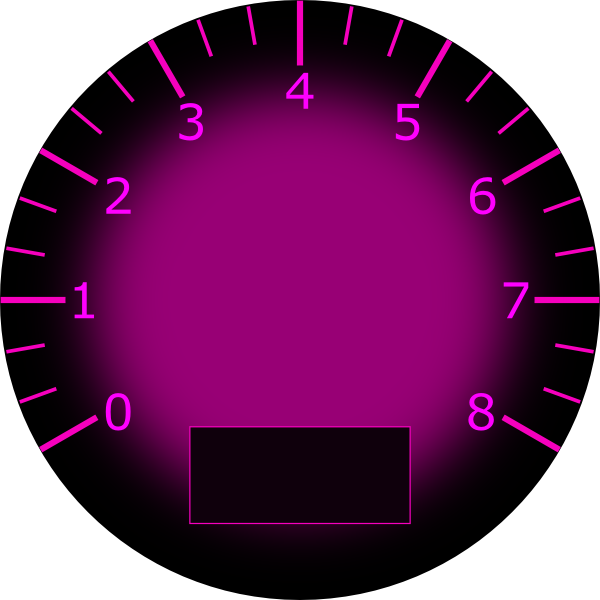
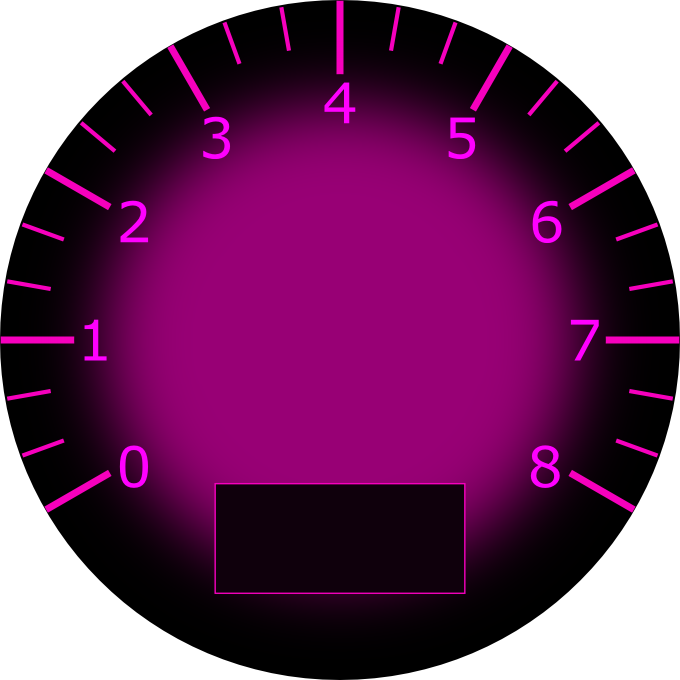
changed dimensions

diff --git a/rotateImage.py b/rotateImage.py
@@ -38,17 +38,17 @@ while not done:
     #needleNew2 = pygame.transform.rotozoom(needle, (120 - (RPM_Value  / 66.66)),1)
 
     needle_rect = needleNew.get_rect()
-    needle_rect.center = (400,350)
+    needle_rect.center = (400,380)
     #needle2_rect = needleNew2.get_rect()
     #needle2_rect.center = (895,360)
 
     displayValue = fontFifty.render(("%s" % RPM_Value), 1, (255,0,255))
     labelRect = displayValue.get_rect()
     labelRect.centerx = 400
-    labelRect.centery = 523
+    labelRect.centery = 575
 
 
-    screen.blit(background, (100,50))
+    screen.blit(background, (60,40))
     screen.blit(needleNew, needle_rect)
     screen.blit(displayValue, (labelRect))
     #screen.blit(needleNew2, needle2_rect)
